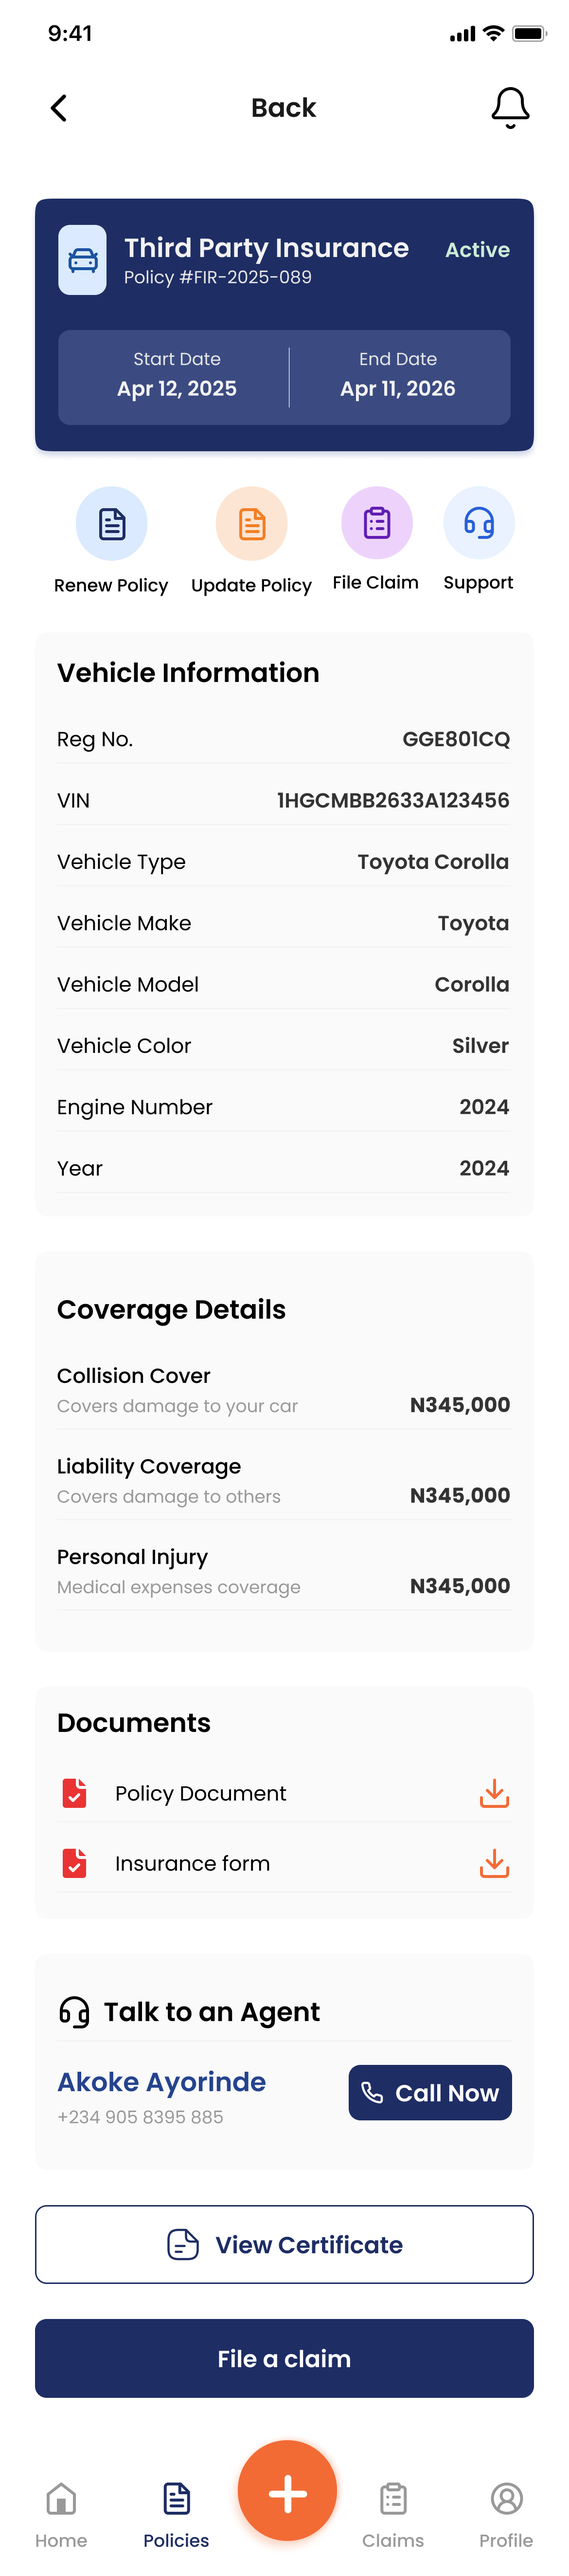
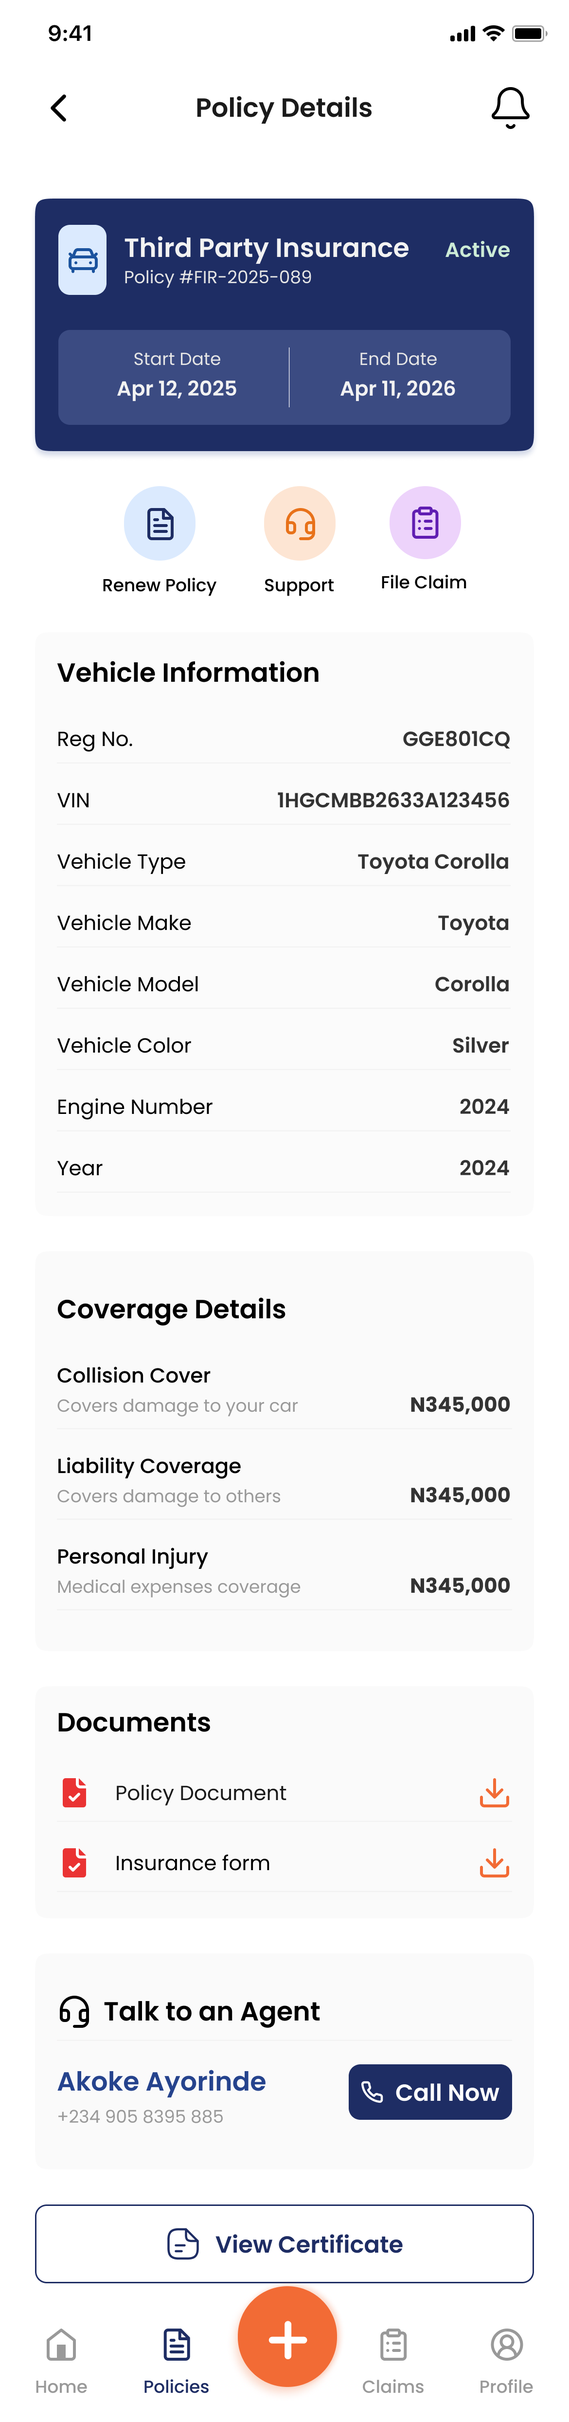
Add Samuel's Losode phone screenshots; update Rex policy details screen

diff --git a/src/data/projects.ts b/src/data/projects.ts
@@ -400,7 +400,7 @@ export const projects: Project[] = [
             type: "images",
             layout: "phones",
             items: [
-              { image: "rex-insurance-policy-details.png", caption: "Policy detail: cover dates, one-tap renew, update, claim or support, and the insured vehicle." },
+              { image: "rex-insurance-policy-details.png", caption: "Policy detail: cover dates, one-tap renew, support or claim, and the insured vehicle." },
               { image: "rex-insurance-payment.png", caption: "Payments: history, premium breakdown and references." },
               { image: "rex-insurance-track-claims.png", caption: "Claim tracking with a timeline and incident details." },
               { image: "rex-insurance-sign-up.png", caption: "Log in: two fields, remember me, and a clear route to sign up." },
@@ -571,10 +571,10 @@ export const projects: Project[] = [
             type: "images",
             layout: "phones",
             items: [
+              { image: "losode-home-mobile.jpg", caption: "Home, mobile" },
               { image: "losode-pdp-mobile.png", caption: "Product detail, mobile" },
-              { image: "losode-cart.png", caption: "Cart" },
-              { image: "losode-checkout.png", caption: "Single-screen checkout" },
-              { image: "losode-mobile-fallback.jpg", caption: "Mobile shop" },
+              { image: "losode-cart-mobile.jpg", caption: "Shopping bag, grouped by designer" },
+              { image: "losode-checkout-mobile.jpg", caption: "Single-screen checkout" },
             ],
           },
           { type: "images", layout: "wide", items: [{ image: "losode-designer-jide.png", caption: "Designer storefront: Jide Anthony" }] },
